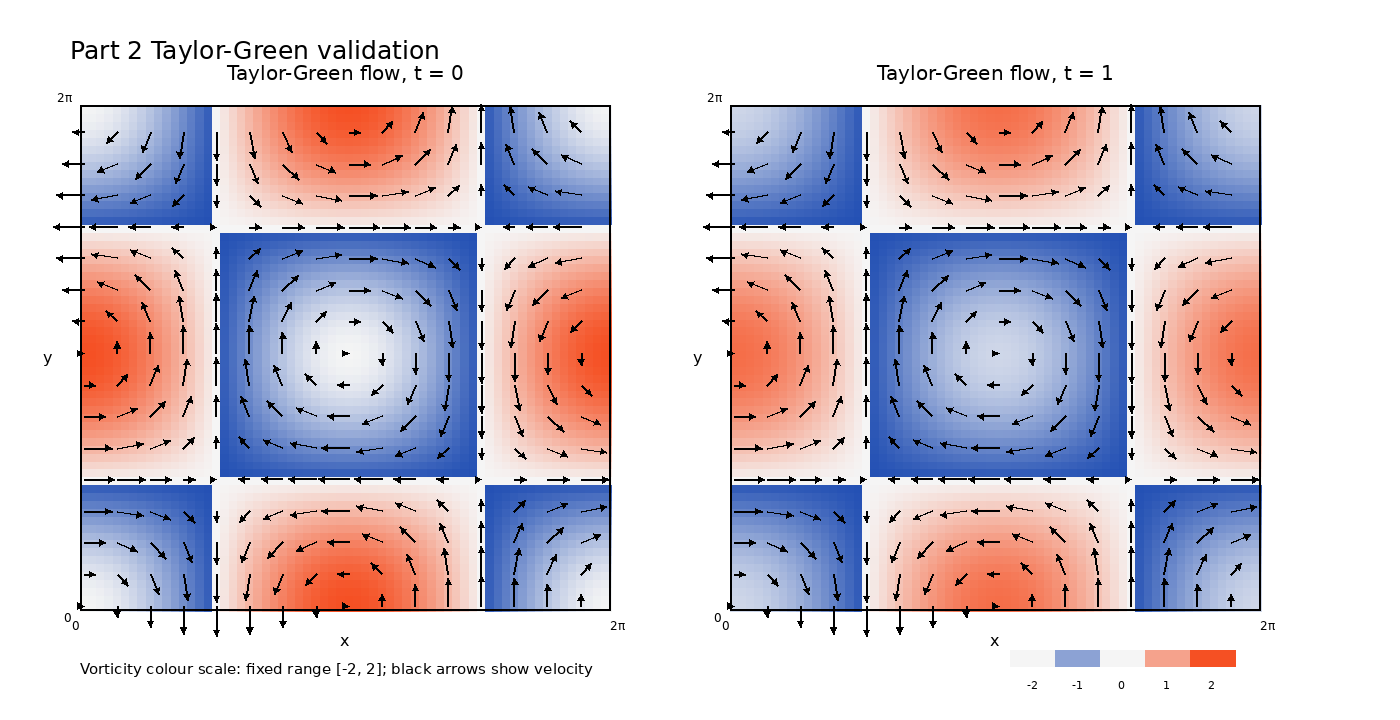
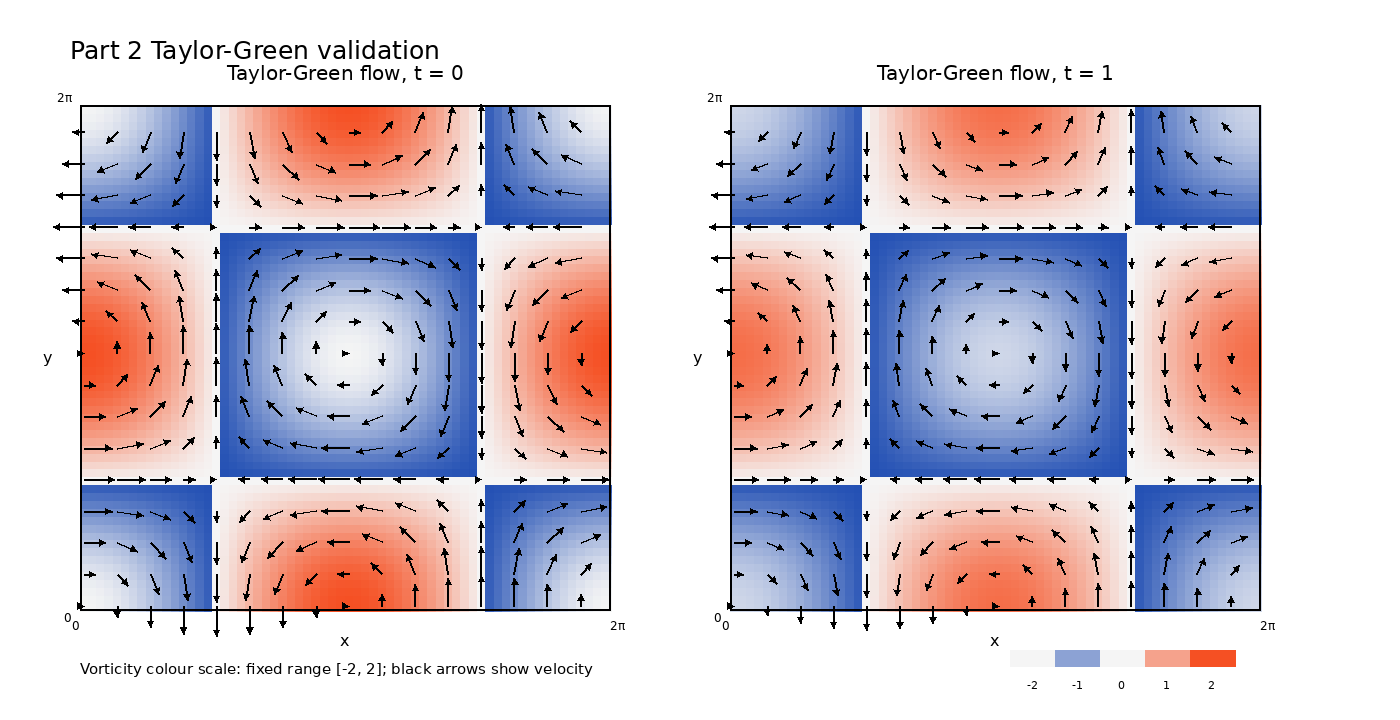
week4: add stability and sensitivity studies

diff --git a/week4/scripts/plot_part3.py b/week4/scripts/plot_part3.py
@@ -1,0 +1,180 @@
+"""Analyze stored Part 3 Rust runs and render the three evidence figures."""
+
+import json
+import math
+from pathlib import Path
+
+from PIL import Image, ImageDraw, ImageFont
+
+ROOT = Path(__file__).resolve().parents[2]
+ARTIFACTS = ROOT / "week4" / "artifacts"
+EVIDENCE = ROOT / "week4" / "evidence"
+
+
+def font(size):
+    return ImageFont.truetype("/usr/share/fonts/truetype/dejavu/DejaVuSans.ttf", size)
+
+
+def color(value, limit):
+    value = max(-limit, min(limit, value)) / limit
+    if value < 0:
+        t = value + 1
+        return (int(40 * t + 245 * (1 - t)), int(80 * t + 245 * (1 - t)), int(190 * t + 245 * (1 - t)))
+    return (int(245 * value + 245 * (1 - value)), int(90 * value + 245 * (1 - value)), int(40 * value + 245 * (1 - value)))
+
+
+def read_fields(path):
+    with path.open() as stream:
+        return [json.loads(line) for line in stream]
+
+
+def read_diagnostics(path):
+    rows = []
+    for line in path.read_text().splitlines()[1:]:
+        fields = line.split("\t")
+        if len(fields) == 3:
+            rows.append(tuple(float(value) for value in fields))
+    return rows
+
+
+def xy(box, x, y, xlim, ylim):
+    left, top, right, bottom = box
+    return (int(left + (x - xlim[0]) / (xlim[1] - xlim[0]) * (right - left)), int(bottom - (y - ylim[0]) / (ylim[1] - ylim[0]) * (bottom - top)))
+
+
+def plot_line(draw, points, colour, width=2):
+    finite = [point for point in points if point is not None]
+    if len(finite) > 1:
+        draw.line(finite, fill=colour, width=width, joint="curve")
+
+
+def random_figure():
+    frames = read_fields(ARTIFACTS / "random" / "fields.jsonl")
+    selected = [min(frames, key=lambda frame: abs(frame["t"] - target)) for target in [0.0, 2.0, 5.0, 10.0]]
+    limit = max(abs(value) for value in selected[0]["omega"])
+    image = Image.new("RGB", (1800, 540), "white")
+    draw = ImageDraw.Draw(image)
+    for panel_index, frame in enumerate(selected):
+        left, top, right, bottom = 35 + panel_index * 440, 95, 425 + panel_index * 440, 485
+        n = int(round(math.sqrt(len(frame["omega"]))))
+        cell_width, cell_height = (right - left) / n, (bottom - top) / n
+        for row in range(n):
+            for col in range(n):
+                value = frame["omega"][row * n + col]
+                x0, y0 = int(left + col * cell_width), int(top + row * cell_height)
+                draw.rectangle((x0, y0, int(x0 + cell_width + 1), int(y0 + cell_height + 1)), fill=color(value, limit))
+        draw.rectangle((left, top, right, bottom), outline="black")
+        draw.text(((left + right) / 2, top - 35), f"t = {frame['t']:g}", fill="black", anchor="mm", font=font(20))
+        draw.text((left, bottom + 10), "0", fill="black", anchor="ra", font=font(12))
+        draw.text((right, bottom + 10), "2π", fill="black", anchor="la", font=font(12))
+        draw.text((left - 8, top), "0", fill="black", anchor="ra", font=font(12))
+        draw.text((left - 8, bottom), "2π", fill="black", anchor="rd", font=font(12))
+        draw.text((left + 8, top + 8), f"E = {energy(frame):.4f}", fill="black", font=font(12))
+        draw.text((left + 8, top + 25), f"Z = {0.5 * sum(value * value for value in frame['omega']) / len(frame['omega']):.4f}", fill="black", font=font(12))
+    draw.text((35, 28), "Random-flow vorticity evolution", fill="black", font=font(25))
+    draw.text((35, 510), f"Shared vorticity colour scale: [{-limit:.3f}, {limit:.3f}]", fill="black", font=font(14))
+    image.save(EVIDENCE / "random.png")
+
+
+def energy(frame):
+    return 0.5 * sum(u * u + v * v for u, v in zip(frame["u"], frame["v"])) / len(frame["u"])
+
+
+def chart_axes(draw, box, title, xlabel, ylabel):
+    draw.rectangle(box, outline="black")
+    left, top, right, bottom = box
+    draw.text(((left + right) / 2, top - 25), title, fill="black", anchor="mm", font=font(19))
+    draw.text(((left + right) / 2, bottom + 28), xlabel, fill="black", anchor="mm", font=font(15))
+    draw.text((left + 5, (top + bottom) / 2), ylabel, fill="black", anchor="lm", font=font(13))
+
+
+def log_point(box, time, value, x_max, y_min, y_max):
+    if not math.isfinite(value) or value <= 0:
+        return None
+    return xy(box, time, math.log(value), (0.0, x_max), (math.log(y_min), math.log(y_max)))
+
+
+def blowup_figure():
+    image = Image.new("RGB", (1600, 720), "white")
+    draw = ImageDraw.Draw(image)
+    boxes = [(85, 105, 725, 600), (875, 105, 1515, 600)]
+    tg_runs = [("RK4 dt=0.032", "blue", read_diagnostics(ARTIFACTS / "scan/taylor-green-dt-0.032.tsv")), ("RK4 dt=0.033", "red", read_diagnostics(ARTIFACTS / "scan/taylor-green-dt-0.033.tsv"))]
+    tg_y = [value for _, _, rows in tg_runs for _, value, _ in rows if math.isfinite(value)]
+    tg_y.extend(0.25 * math.exp(-0.4 * t) for t in [0, 8])
+    chart_axes(draw, boxes[0], "Taylor-Green diffusive stability", "time", "energy (log scale)")
+    for name, colour, rows in tg_runs:
+        points = [log_point(boxes[0], t, e, 8, min(tg_y) * 0.5, max(tg_y) * 2) for t, e, _ in rows]
+        plot_line(draw, points, colour)
+    exact = [log_point(boxes[0], t, 0.25 * math.exp(-0.4 * t), 8, min(tg_y) * 0.5, max(tg_y) * 2) for t in [i * 0.05 for i in range(161)]]
+    plot_line(draw, exact, "black", 2)
+    stop = next((t for t, e, _ in read_diagnostics(ARTIFACTS / "scan/taylor-green-dt-0.033.tsv") if not math.isfinite(e)), None)
+    if stop is not None:
+        px, _ = xy(boxes[0], stop, math.log(min(tg_y)), (0, 8), (math.log(min(tg_y) * 0.5), math.log(max(tg_y) * 2)))
+        draw.line((px, boxes[0][1], px, boxes[0][3]), fill="red", width=1)
+        draw.text((px + 5, boxes[0][1] + 8), f"stop {stop:.3g}", fill="red", font=font(12))
+    draw.text((95, 625), "Dashed black: exact E(t); predicted limit = 0.0316", fill="black", font=font(13))
+    random_runs = [("RK4 dt=0.035", "blue", read_diagnostics(ARTIFACTS / "scan/random-rk4-dt-0.035.tsv")), ("RK4 dt=0.038", "red", read_diagnostics(ARTIFACTS / "scan/random-rk4-dt-0.038.tsv")), ("Euler dt=0.010", "green", read_diagnostics(ARTIFACTS / "scan/random-euler-dt-0.010.tsv"))]
+    random_y = [e for _, _, rows in random_runs for _, e, _ in rows if math.isfinite(e)]
+    chart_axes(draw, boxes[1], "Random-flow stability", "time", "energy (log scale)")
+    for name, colour, rows in random_runs:
+        plot_line(draw, [log_point(boxes[1], t, e, 10, min(random_y) * 0.5, max(random_y) * 2) for t, e, _ in rows], colour)
+    for name, colour, rows in random_runs[1:]:
+        stop = next((t for t, e, _ in rows if not math.isfinite(e)), None)
+        if stop is not None:
+            px, _ = xy(boxes[1], stop, math.log(min(random_y)), (0, 10), (math.log(min(random_y) * 0.5), math.log(max(random_y) * 2)))
+            draw.line((px, boxes[1][1], px, boxes[1][3]), fill=colour, width=1)
+            draw.text((px + 5, boxes[1][1] + 8 + (0 if colour == "red" else 18)), f"stop {stop:.3g}", fill=colour, font=font(12))
+    draw.text((885, 625), "Conservative advective bound = 0.02066; measured bracket = [0.035, 0.038]", fill="black", font=font(13))
+    for index, (name, colour, _) in enumerate(tg_runs + random_runs):
+        x = 105 + index * 115 if index < 2 else 900 + (index - 2) * 130
+        y = 655 if index < 2 else 655
+        draw.line((x, y, x + 20, y), fill=colour, width=3)
+        draw.text((x + 26, y), name, fill="black", anchor="lm", font=font(11))
+    image.save(EVIDENCE / "blowup.png")
+
+
+def sensitivity_figure():
+    pairs = [("Taylor-Green", "taylor-green-original", "taylor-green-perturbed", "blue"), ("Random flow", "random-original", "random-perturbed", "red")]
+    distances = {}
+    for label, original_name, perturbed_name, colour in pairs:
+        original = read_fields(ARTIFACTS / "sensitivity" / original_name / "fields.jsonl")
+        perturbed = read_fields(ARTIFACTS / "sensitivity" / perturbed_name / "fields.jsonl")
+        values = []
+        for first, second in zip(original, perturbed):
+            numerator = math.sqrt(sum((a - b) ** 2 for a, b in zip(first["omega"], second["omega"])))
+            denominator = math.sqrt(sum(a * a for a in first["omega"]))
+            values.append((first["t"], numerator / denominator))
+        distances[label] = values
+        print(f"{label} sensitivity distance: initial={values[0][1]:.8e}, final={values[-1][1]:.8e}, growth factor={values[-1][1] / values[0][1]:.8e}")
+        original_energy = [energy(frame) for frame in original]
+        perturbed_energy = [energy(frame) for frame in perturbed]
+        print(f"{label} original energy: initial={original_energy[0]:.8f}, final={original_energy[-1]:.8f}")
+        print(f"{label} perturbed energy: initial={perturbed_energy[0]:.8f}, final={perturbed_energy[-1]:.8f}")
+    image = Image.new("RGB", (1000, 650), "white")
+    draw = ImageDraw.Draw(image)
+    box = (100, 90, 900, 540)
+    all_values = [value for values in distances.values() for _, value in values if value > 0]
+    chart_axes(draw, box, "Sensitivity to initial vorticity ripple", "time", "relative vorticity distance (log scale)")
+    for label, colour in [("Taylor-Green", "blue"), ("Random flow", "red")]:
+        points = [log_point(box, t, value, 20, min(all_values) * 0.5, max(all_values) * 2) for t, value in distances[label]]
+        plot_line(draw, points, colour, 3)
+    draw.line((120, 590, 145, 590), fill="blue", width=3)
+    draw.text((155, 590), "Taylor-Green", fill="black", anchor="lm", font=font(13))
+    draw.line((300, 590, 325, 590), fill="red", width=3)
+    draw.text((335, 590), "Random flow", fill="black", anchor="lm", font=font(13))
+    image.save(EVIDENCE / "sensitivity.png")
+
+
+def main():
+    EVIDENCE.mkdir(exist_ok=True)
+    reference = read_diagnostics(ARTIFACTS / "random.tsv")
+    print(f"Random reference E(0)={reference[0][1]:.8f}, Z(0)={reference[0][2]:.8f}, E(10)={reference[-1][1]:.8f}, Z(10)={reference[-1][2]:.8f}")
+    print(f"Random enstrophy reduction factor: {reference[0][2] / reference[-1][2]:.8f}")
+    print(f"Random retained energy fraction: {reference[-1][1] / reference[0][1]:.8f}")
+    random_figure()
+    blowup_figure()
+    sensitivity_figure()
+
+
+if __name__ == "__main__":
+    main()

diff --git a/week4/scripts/run_part3.py b/week4/scripts/run_part3.py
@@ -1,0 +1,131 @@
+"""Run the Part 3 Rust simulations and record English diagnostics."""
+
+import json
+import math
+import shutil
+import subprocess
+from pathlib import Path
+
+
+ROOT = Path(__file__).resolve().parents[2]
+WEEK4 = ROOT / "week4"
+ARTIFACTS = WEEK4 / "artifacts"
+
+
+def field_command(kind, n, extra):
+    return ["field", kind, "--n", str(n), *extra]
+
+
+def generate_field(command, destination):
+    data = subprocess.check_output(command, cwd=WEEK4)
+    destination.write_bytes(data)
+    return data
+
+
+def run_fluid(field_data, output_dir, stdout_path, method, nu, dt, t_end, every, expected_failure=False):
+    output_dir.mkdir(parents=True, exist_ok=True)
+    command = [
+        "fluid", "--method", method, "--nu", str(nu), "--dt", str(dt),
+        "--t-end", str(t_end), "--every", str(every), "--out", str(output_dir),
+    ]
+    result = subprocess.run(command, input=field_data, cwd=WEEK4, text=False, stdout=subprocess.PIPE, stderr=subprocess.PIPE)
+    stdout_path.write_bytes(result.stdout)
+    if result.returncode != 0 and not expected_failure:
+        raise RuntimeError(f"unexpected fluid failure for {output_dir}: {result.stderr.decode()}")
+    return result.returncode
+
+
+def diagnostic_rows(path):
+    rows = []
+    for line in path.read_text().splitlines()[1:]:
+        fields = line.split("\t")
+        if len(fields) == 3:
+            rows.append(tuple(float(value) for value in fields))
+    return rows
+
+
+def run_scan(field_data, prefix, method, dt, t_end=10.0, every=0.5):
+    output_dir = ARTIFACTS / "scan" / f"{prefix}-{method}-dt-{dt:.3f}"
+    stdout_path = output_dir.parent / f"{output_dir.name}.tsv"
+    code = run_fluid(field_data, output_dir, stdout_path, method, 0.004, dt, t_end, every, expected_failure=True)
+    rows = diagnostic_rows(stdout_path)
+    return output_dir, stdout_path, code, rows
+
+
+def main():
+    ARTIFACTS.mkdir(exist_ok=True)
+    (ARTIFACTS / "scan").mkdir(exist_ok=True)
+    (ARTIFACTS / "sensitivity").mkdir(exist_ok=True)
+    (ARTIFACTS / "unstable").mkdir(exist_ok=True)
+
+    random_command = field_command("random", 128, ["--seed", "2026", "--k-min", "2", "--k-max", "6"])
+    random_data = generate_field(random_command, ARTIFACTS / "random-initial.json")
+    random_code = run_fluid(random_data, ARTIFACTS / "random", ARTIFACTS / "random.tsv", "rk4", 0.004, 0.01, 10.0, 0.1)
+    random_rows = diagnostic_rows(ARTIFACTS / "random.tsv")
+    print(f"Random reference exit code: {random_code}")
+    print(f"Random reference first row: {random_rows[0]}")
+    print(f"Random reference final row: {random_rows[-1]}")
+
+    tg_data = generate_field(field_command("taylor-green", 64, []), ARTIFACTS / "taylor-green-initial.json")
+    unstable_dir = ARTIFACTS / "unstable" / "taylor-green"
+    unstable_code = run_fluid(tg_data, unstable_dir, ARTIFACTS / "unstable" / "taylor-green.tsv", "rk4", 0.1, 0.04, 4.0, 0.1, expected_failure=True)
+    unstable_rows = diagnostic_rows(ARTIFACTS / "unstable" / "taylor-green.tsv")
+    print(f"Taylor-Green dt=0.04 exit code: {unstable_code}; final diagnostic row: {unstable_rows[-1]}")
+
+    diff_bound = 2.785 / (0.1 * 2 * 21**2)
+    print(f"Predicted Taylor-Green diffusive stability limit: {diff_bound:.12f}")
+    for dt in [0.032, 0.033]:
+        directory = ARTIFACTS / "scan" / f"taylor-green-dt-{dt:.3f}"
+        stdout_path = directory.parent / f"{directory.name}.tsv"
+        code = run_fluid(tg_data, directory, stdout_path, "rk4", 0.1, dt, 8.0, 0.5, expected_failure=True)
+        rows = diagnostic_rows(stdout_path)
+        print(f"Taylor-Green dt={dt:.3f}: exit code {code}, last finite/diagnostic time {rows[-1][0]:.15g}")
+
+    random_json = json.loads(random_data)
+    u, v = random_json["u"], random_json["v"]
+    umax = max(math.hypot(a, b) for a, b in zip(u, v))
+    advective_bound = 2.83 / (umax * math.sqrt(2.0) * 42.0)
+    print(f"Random initial Umax: {umax:.12f}")
+    print(f"Predicted random-flow advective bound: {advective_bound:.12f}")
+
+    scan_results = []
+    for dt in [0.038, 0.040]:
+        result = run_scan(random_data, "random", "rk4", dt)
+        scan_results.append(result)
+        print(f"Random RK4 dt={dt:.3f}: exit code {result[2]}, last time {result[3][-1][0]:.15g}")
+    if all(result[2] == 0 for result in scan_results):
+        for dt in [0.045, 0.050, 0.055, 0.060, 0.070]:
+            result = run_scan(random_data, "random", "rk4", dt)
+            scan_results.append(result)
+            print(f"Random RK4 dt={dt:.3f}: exit code {result[2]}, last time {result[3][-1][0]:.15g}")
+            if result[2] != 0:
+                break
+    elif all(result[2] != 0 for result in scan_results):
+        for dt in [0.035, 0.032, 0.030, 0.028, 0.025]:
+            result = run_scan(random_data, "random", "rk4", dt)
+            scan_results.append(result)
+            print(f"Random RK4 dt={dt:.3f}: exit code {result[2]}, last time {result[3][-1][0]:.15g}")
+            if result[2] == 0:
+                break
+    euler_result = run_scan(random_data, "random", "euler", 0.01)
+    print(f"Random Euler dt=0.010: exit code {euler_result[2]}, last time {euler_result[3][-1][0]:.15g}")
+
+    tg_perturbed = subprocess.check_output(["perturb_field"], input=tg_data, cwd=WEEK4)
+    random_perturbed = subprocess.check_output(["perturb_field"], input=random_data, cwd=WEEK4)
+    pairs = [
+        ("taylor-green-original", tg_data),
+        ("taylor-green-perturbed", tg_perturbed),
+        ("random-original", random_data),
+        ("random-perturbed", random_perturbed),
+    ]
+    for name, data in pairs:
+        directory = ARTIFACTS / "sensitivity" / name
+        stdout_path = directory.parent / f"{directory.name}.tsv"
+        code = run_fluid(data, directory, stdout_path, "rk4", 0.004 if name.startswith("random") else 0.1, 0.01, 20.0, 0.5)
+        print(f"Sensitivity run {name}: exit code {code}")
+
+    (ARTIFACTS / "part3-parameters.json").write_text(json.dumps({"diffusive_bound": diff_bound, "umax": umax, "advective_bound": advective_bound}, indent=2) + "\n")
+
+
+if __name__ == "__main__":
+    main()

diff --git a/week4/src/bin/perturb_field.rs b/week4/src/bin/perturb_field.rs
@@ -1,0 +1,40 @@
+//! Add the prescribed initial-vorticity ripple and reconstruct a valid field.
+
+use std::io::{self, Read};
+use std::process::exit;
+use week4::field_io::{field_json, parse_field_json};
+use week4::fluid::{velocity_to_vorticity, vorticity_to_velocity};
+
+fn main() {
+    let mut input = String::new();
+    io::stdin()
+        .read_to_string(&mut input)
+        .unwrap_or_else(|_| fail("could not read field JSON"));
+    let field = parse_field_json(&input)
+        .unwrap_or_else(|message| fail(&format!("invalid field JSON: {message}")));
+    let n = field.n;
+    let mut omega = velocity_to_vorticity(&field.u, &field.v, n);
+    let component_max = field
+        .u
+        .iter()
+        .chain(&field.v)
+        .map(|value| value.abs())
+        .fold(0.0, f64::max);
+    for row in 0..n {
+        for col in 0..n {
+            let x = 2.0 * std::f64::consts::PI * col as f64 / n as f64;
+            let y = 2.0 * std::f64::consts::PI * row as f64 / n as f64;
+            omega[row * n + col] += -7e-5 * component_max * (3.0 * x).cos() * (4.0 * y).cos();
+        }
+    }
+    let (u, v) = vorticity_to_velocity(&omega, n);
+    println!(
+        "{}",
+        field_json(&field.case, field.n, field.seed, &field.k_band, &u, &v)
+    );
+}
+
+fn fail(message: &str) -> ! {
+    eprintln!("error: {message}");
+    exit(2);
+}

diff --git a/week4/scripts/plot_taylor_green.py b/week4/scripts/plot_taylor_green.py
@@ -46,6 +46,11 @@ def main():
     image = Image.new("RGB", (1400, 720), "white")
     draw = ImageDraw.Draw(image)
     panels = [(80, 105, 610, 610), (730, 105, 1260, 610)]
+    common_velocity = max(
+        math.hypot(u, v)
+        for frame in [initial, final]
+        for u, v in zip(frame["u"], frame["v"])
+    )
     for panel, frame in zip(panels, [initial, final]):
         left, top, right, bottom = panel
         cell_width = (right - left) / n
@@ -59,8 +64,7 @@ def main():
                 y1 = int(bottom - row * cell_height + 1)
                 draw.rectangle((x0, y0, x1, y1), fill=vorticity_color(value))
         spacing = 4
-        max_velocity = max(math.hypot(u, v) for u, v in zip(frame["u"], frame["v"]))
-        arrow_scale = 0.06 * min(right - left, bottom - top) / max_velocity
+        arrow_scale = 0.06 * min(right - left, bottom - top) / common_velocity
         for row in range(0, n, spacing):
             for col in range(0, n, spacing):
                 index = row * n + col
